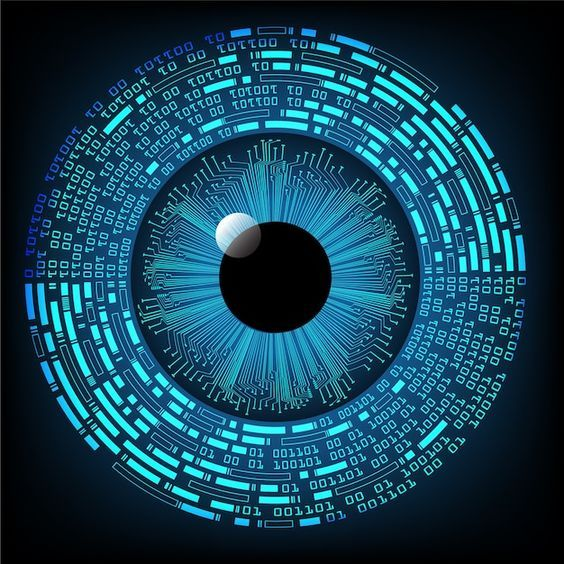
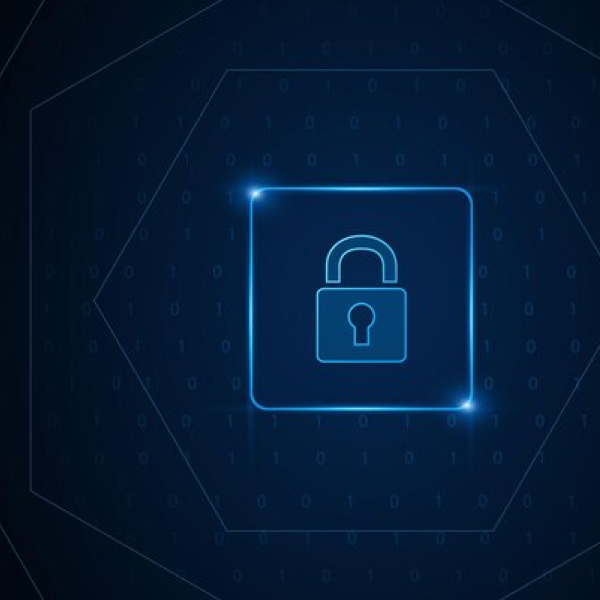
some changes are made and fixed by hackthon owner

diff --git a/index.html b/index.html
@@ -157,7 +157,7 @@
       />
     </video>
 
-    
+
       </div>
       <div class="direction-bg green inner-2"></div>
       <img
@@ -213,7 +213,7 @@
                 <h4 class="white activity-inline-block">
                   Son Başvuru : 20 Şubat 2025
                 </h4>
-                <a href="https://docs.google.com/forms/d/e/1FAIpQLSdzC8J71PuZ6bBvSk99vi8XnIS_PiRg3r2xMjzt8Qt8lAHT4w/viewform?usp=dialog" target="_blank">
+                <a href="https://google.com" target="_blank">
                   <input
                     type="button"
                     data-wait="Please wait..."
@@ -246,45 +246,47 @@
             id="w-node-_301fb1fd-15ca-14df-d9a2-b8538f69b90b-bbb27c78"
             class="grid-12"
           >
-            <div
-              id="w-node-_301fb1fd-15ca-14df-d9a2-b8538f69b921-bbb27c78"
-              data-w-id="301fb1fd-15ca-14df-d9a2-b8538f69b921"
-              style="opacity: 0"
-              class="challenge accelerator topics"
-            >
-             
-              <p class="p-32 white">Sürdürülebilirlik : Yenilenebilir Enerji</p>
-              <p class="p-16 white">
-                Enerji kaynaklarının verimli ve çevre dostu kullanımına yönelik yenilikçi çözümler geliştirme.
-              </p>
               <div
-                id="w-node-da3d0451-3411-6368-9357-def29d2d9db9-bbb27c78"
-                class="spacer _80"
-              ></div>
-              <img src="./maintainable-world.svg" alt="" class="maintainable-world-img">
-              
-              <div class="spacer _24"></div>
-            </div>
+                      id="w-node-_301fb1fd-15ca-14df-d9a2-b8538f69b921-bbb27c78"
+                      data-w-id="301fb1fd-15ca-14df-d9a2-b8538f69b921"
+                      style="opacity: 0"
+                      class="challenge accelerator participants"
+              >
+
+                  <p class="p-32 white">
+                      Sürdürülebilirlik : Yenilenebilir Enerji
+                  </p>
+                  <p class="p-16 white">
+                      Enerji kaynaklarının verimli ve çevre dostu kullanımına yönelik yenilikçi çözümler geliştirme.
+                  </p>
+                  <div
+                          id="w-node-da3d0451-3411-6368-9357-def29d2d9db9-bbb27c78"
+                          class="spacer _36"
+                  ></div>
+                  <div
+                          id="w-node-da3d0451-3411-6368-9357-def29d2d9db9-bbb27c78"
+                          class="spacer _36"
+                  ></div>
+                  <img src="./maintainable-world.jpg" alt="" class="subject-image">
+              </div>
             <div
               id="w-node-_301fb1fd-15ca-14df-d9a2-b8538f69b921-bbb27c78"
               data-w-id="301fb1fd-15ca-14df-d9a2-b8538f69b921"
               style="opacity: 0"
               class="challenge accelerator participants"
             >
-              
+
               <p class="p-32 white">
-                Fintech: Dijital Ödemeler ve Mikro Tasarruf Uygulamaları
+                Fintech: <br>Dijital Ödemeler ve Mikro Tasarruf Uygulamaları
               </p>
               <p class="p-16 white">
                 Finansal işlemleri kolaylaştıran, bireysel tasarrufu teşvik eden uygulamalar oluşturma.
               </p>
               <div
                 id="w-node-da3d0451-3411-6368-9357-def29d2d9db9-bbb27c78"
-                class="spacer _24"
+                class="spacer _36"
               ></div>
-              <img src="./fintech.svg" alt="" class="fintech-image">
-              
-              <div class="spacer _24"></div>
+              <img src="./fintech.jpg" alt="" class="subject-image">
             </div>
             <div
               id="w-node-_929c1d16-35d0-901d-7b17-440c996df4a7-bbb27c78"
@@ -292,18 +294,16 @@
               style="opacity: 0"
               class="challenge accelerator participants"
             >
-              
+
               <p class="p-32 white">Siber Güvenlik : Farkındalık ve Eğitim Uygulamaları</p>
               <p class="p-16 white">
                 Kişisel ve kurumsal dijital güvenliği artırmaya yönelik farkındalık ve eğitim platformları tasarlama.
               </p>
-              <div
-                id="w-node-da3d0451-3411-6368-9357-def29d2d9db9-bbb27c78"
-                class="spacer _24"
-              ></div>
-              <img src="./security.svg" alt="security" class="security-image">
-              
-              <div class="spacer _24"></div>
+                <div
+                        id="w-node-da3d0451-3411-6368-9357-def29d2d9db9-bbb27c78"
+                        class="spacer _36"
+                ></div>
+              <img src="./security.jpg" alt="security" class="subject-image">
             </div>
           </div>
         </div>
@@ -955,8 +955,8 @@
       <div class="spacer _150"></div>
     </section>
     <section class="section overflow-x-hide z-index-1">
-      
-      
+
+
       <div
         class="w-layout-blockcontainer container relative z-index-2 w-container"
         id="sponsors"
@@ -980,7 +980,7 @@
               target="_blank"
               class="partner-logo partner-logo-alignment w-inline-block"
               ><img src="./kent-konseyi-logo.svg" alt="kent-konseyi"></a>
-            
+
         </div>
         <div id="w-node-_89284c67-3961-6974-eb94-7f90c6fc53fe-bbb27c78">
           <h4 class="text-center">Medya Sponsoru</h4>
@@ -995,7 +995,7 @@
             target="_blank"
             class="partner-logo partner-logo-alignment w-inline-block"
             ><img src="./youthall-logo.svg" alt="youthall"></a>
-          
+
       </div>
       <div id="w-node-_89284c67-3961-6974-eb94-7f90c6fc53fe-bbb27c78">
         <h4 class="text-center">Ürün Sponsoru</h4>
@@ -1011,10 +1011,10 @@
           class="partner-logo partner-logo-alignment w-inline-block"
           >
         <img src="./muhiku-logo.svg" alt="Mihiku"></a>
-        
+
     </div>
-        
-      
+
+
         </div>
       </div>
     </section>
@@ -1180,7 +1180,7 @@
               </div>
               <div class="accordion-answer">
                 <p>
-                  10 Mayıs ve 11 Mayıs geceleri ……. konaklama sağlanacaktır.
+                  28 Şubat ve 1 Mart geceleri, Teknopark Ön Kuluçka Merkezi A10 binasında konaklama sağlanacaktır.
                 </p>
               </div>
             </div>
@@ -1209,7 +1209,7 @@
               </div>
               <div class="accordion-answer">
                 <p>
-                  Hayır, ekibinizdeki herkesin kodlama bilmesi zorunlu değildir. Fikir geliştirme, tasarım veya diğer alanlarda katkı sağlayabilirsiniz. 
+                  Hayır, ekibinizdeki herkesin kodlama bilmesi zorunlu değildir. Fikir geliştirme, tasarım veya diğer alanlarda katkı sağlayabilirsiniz.
                 </p>
               </div>
             </div>
@@ -1272,14 +1272,14 @@
                 </div>
               </div>
               <!-- Accordion 10 End-->
-            
+
 
           </div>
         </div>
       </div>
       <div class="spacer _150"></div>
     </section>
-    
+
     <div
         class="w-layout-blockcontainer container relative z-index-2 w-container"
       >
@@ -1287,10 +1287,10 @@
           <div id="w-node-_5e6d324f-9e16-7ff9-804e-931a1902b87e-bbb27c78">
             <h2>Etkinlik Mekanı</h2>
           </div>
-          
-          <iframe class="hidden-frame border-radius-10 google-maps-iframe" 
-        src="https://www.google.com/maps/embed?pb=!1m18!1m12!1m3!1d1565.2297331347545!2d26.635745309539768!3d38.315189654049256!2m3!1f0!2f0!3f0!3m2!1i1024!2i768!4f13.1!3m3!1m2!1s0x14bb91a88395e61b%3A0x49d8178d82a41c70!2sClassboom%20Kulu%C3%A7ka%20Merkezi!5e0!3m2!1str!2str!4v1737905411418!5m2!1str!2str" 
-          allowfullscreen="" loading="lazy"></iframe>
+
+          <iframe class="hidden-frame border-radius-10"
+        src="https://www.google.com/maps/embed?pb=!1m18!1m12!1m3!1d1565.2297331347545!2d26.635745309539768!3d38.315189654049256!2m3!1f0!2f0!3f0!3m2!1i1024!2i768!4f13.1!3m3!1m2!1s0x14bb91a88395e61b%3A0x49d8178d82a41c70!2sClassboom%20Kulu%C3%A7ka%20Merkezi!5e0!3m2!1str!2str!4v1737905411418!5m2!1str!2str"
+        width="900" height="450" style="border:0;" allowfullscreen="" loading="lazy"></iframe>
 
           <div class="spacer _24"></div>
         </div>
@@ -1300,7 +1300,7 @@
         <div class="spacer _40"></div>
         <div class="w-layout-blockcontainer container w-container">
           <div class="grid-12">
-          
+
             <div id="w-node-f7938305-9246-d9de-bd4d-56bb65986809-51e627e8">
               <div class="spacer _24"></div
               <a href="/" class="logo-link w-nav-brand"
@@ -1328,7 +1328,7 @@
                 <a href="mailto:kilincarslanbusranur@gmail.com" class="p-16 white light"
                   >Daha Fazla Sorunuz mu var ?</a
                 ><a
-            
+
                   class="p-16 white light"
                   >Sosyal Medyadan Takip Edebilirsiniz.</a
                 >
@@ -1348,7 +1348,7 @@
                   target="_blank"
                 ></a
                 ><a
-                  href="https://x.com/iztechgec"
+                  href="https://x.com"
                   class="social-link x"
                   target="_blank"
                 ></a>
@@ -1357,7 +1357,7 @@
             <div id="w-node-_1892b1f5-faa2-305f-4d9c-e9fe1c7086ba-51e627e8">
               <div class="spacer _40"></div>
               <p class="p-12 white light dim">
-                by <a href="https://iytechli.com" class="white" target="_blank" >iytechli.com</a> 
+                by <a href="https://iytechli.com" class="white" target="_blank" >iytechli.com</a>
               </p>
             </div>
           </div>

diff --git a/index.css b/index.css
@@ -3674,9 +3674,6 @@ figcaption {
 .spacer._150 {
   min-height: 150px;
 }
-.spacer._36 {
-  height: 36px;
-}
 
 .spacer.line {
   background-color: var(--black);
@@ -3807,7 +3804,7 @@ figcaption {
 }
 
 .p-16 {
-  font-size: 16px;
+  font-size: 15px;
 }
 
 .p-16.white.light:hover {
@@ -3909,7 +3906,7 @@ figcaption {
   -webkit-backdrop-filter: blur(60px);
   backdrop-filter: blur(60px);
   background-color: #0003;
-  padding: 20px 60px 20px 20px;
+  padding: 20px;
   position: relative;
   overflow: hidden;
 }
@@ -4131,17 +4128,7 @@ figcaption {
   justify-content: center;
   align-items: center;
 }
-.google-maps-iframe {
-  width: 340px;
-  height: 400px;
-  border: 0;
-}
-@media screen and (min-width: 991px) {
-  .google-maps-iframe {
-    width: 900px;
-    height: 450px;
-    border: 0;
-  }
+@media screen and (max-width: 991px) {
 }
 
 .img-partner {
@@ -5613,11 +5600,18 @@ figcaption {
   }
 }
 
+.subject-image {
+  width: 100%;
+  border-radius: 10px;
+  height: auto;
+}
+
 .fintech-image {
   border-radius: 10px;
 }
 
 .maintainable-world-img {
+  margin-top: 20px;
   border-radius: 10px;
 }
 .security-image {
